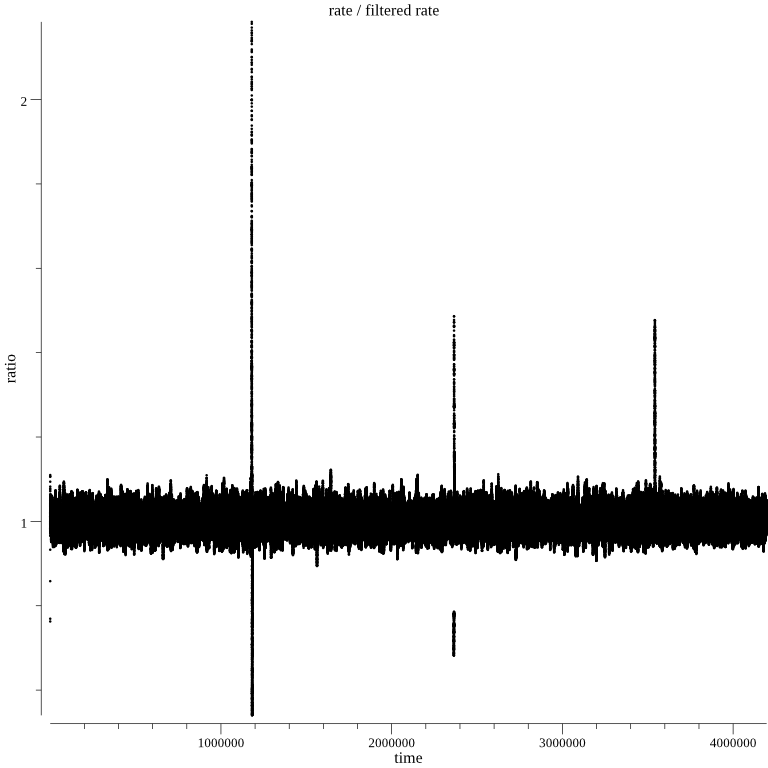
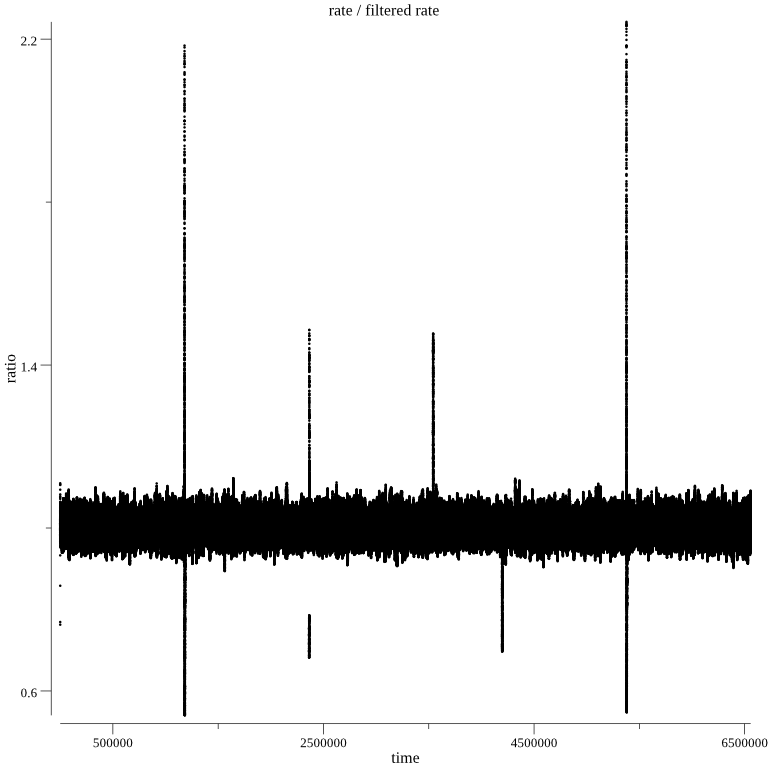
Added don't drop probability

diff --git a/main.go b/main.go
@@ -1,6 +1,7 @@
 package main
 
 import (
+	"math"
 	"math/rand"
 
 	"gonum.org/v1/plot"
@@ -42,16 +43,21 @@ func main() {
 		return rate / filter
 	}
 
+	lastSpike, lastRatio := 0, 0.0
+
 	// simulator
-	time, points := 0, make(plotter.XYs, 0, 2*MemorySize*1024)
+	time, points, probabilities := 0, make(plotter.XYs, 0, 2*MemorySize*1024), make(plotter.XYs, 0, 2*MemorySize*1024)
 	simulate := func(requests, delta int) (spikes int) {
 		for i := 0; i < requests; i++ {
 			time += rand.Intn(delta) + 1
 			ratio := lowpass(time)
 			if ratio > Threshold {
+				lastSpike, lastRatio = time, ratio-1
 				spikes++
 			}
 			points = append(points, plotter.XY{X: float64(time), Y: ratio})
+			probability := 1 / (1 + lastRatio*math.Exp(.00001*float64(lastSpike-time)))
+			probabilities = append(probabilities, plotter.XY{X: float64(time), Y: probability})
 		}
 		return
 	}
@@ -87,7 +93,22 @@ func main() {
 		panic("there should be no spike")
 	}
 
-	// graph the results
+	// base load resumes
+	if simulate(MemorySize*1024, 8) > 0 {
+		panic("there should be no spike")
+	}
+
+	// burst of traffic
+	if simulate(1024, 2) == 0 {
+		panic("there should have been a spike")
+	}
+
+	// base load resumes
+	if simulate(MemorySize*1024, 8) > 0 {
+		panic("there should be no spike")
+	}
+
+	// graph the ratio results
 	p, err := plot.New()
 	if err != nil {
 		panic(err)
@@ -106,6 +127,29 @@ func main() {
 	p.Add(s)
 
 	err = p.Save(8*vg.Inch, 8*vg.Inch, "points.png")
+	if err != nil {
+		panic(err)
+	}
+
+	// graph the probability results
+	p, err = plot.New()
+	if err != nil {
+		panic(err)
+	}
+
+	p.Title.Text = "don't drop probabiltiy"
+	p.X.Label.Text = "time"
+	p.Y.Label.Text = "probabiltiy"
+
+	s, err = plotter.NewScatter(probabilities)
+	if err != nil {
+		panic(err)
+	}
+	s.GlyphStyle.Radius = vg.Length(1)
+	s.GlyphStyle.Shape = draw.CircleGlyph{}
+	p.Add(s)
+
+	err = p.Save(8*vg.Inch, 8*vg.Inch, "probabilities.png")
 	if err != nil {
 		panic(err)
 	}

diff --git a/README.md b/README.md
@@ -1,6 +1,9 @@
 # Traffic Spike Filter
 
-In main.go a traffic spike detector is implemented and simulated. Traffic spikes are detected regardless of the base load traffic request rate. Traffic spikes are detected by feeding the traffic rate into a [low pass filter](https://en.wikipedia.org/wiki/Low-pass_filter#Discrete-time_realization) and then computing a ratio by dividing the instantaneous rate by the filtered rate. If the ratio is greater than some threshold then there is a traffic spike. The algorithm has two parameters: the number of recorded requests stored in a ring buffer and the spike threshold.
+In main.go a traffic spike detector is implemented and simulated. Traffic spikes are detected regardless of the base load traffic request rate. Traffic spikes are detected by feeding the traffic rate into a [low pass filter](https://en.wikipedia.org/wiki/Low-pass_filter#Discrete-time_realization) and then computing a ratio by dividing the instantaneous rate by the filtered rate. If the ratio is greater than some threshold then there is a traffic spike. Traffic is then blocked with an exponentially decaying probability. The algorithm has two parameters: the number of recorded requests stored in a ring buffer and the spike threshold.
 
 Below is a graph of the ratio: request rate divided by the low pass filtered request rate.
 ![rate / filtered rate](points.png?raw=true)
+
+Bellow is a graph of the don't drop the connection probability.
+![don't drop the connection](probabilities.png?raw=true)
